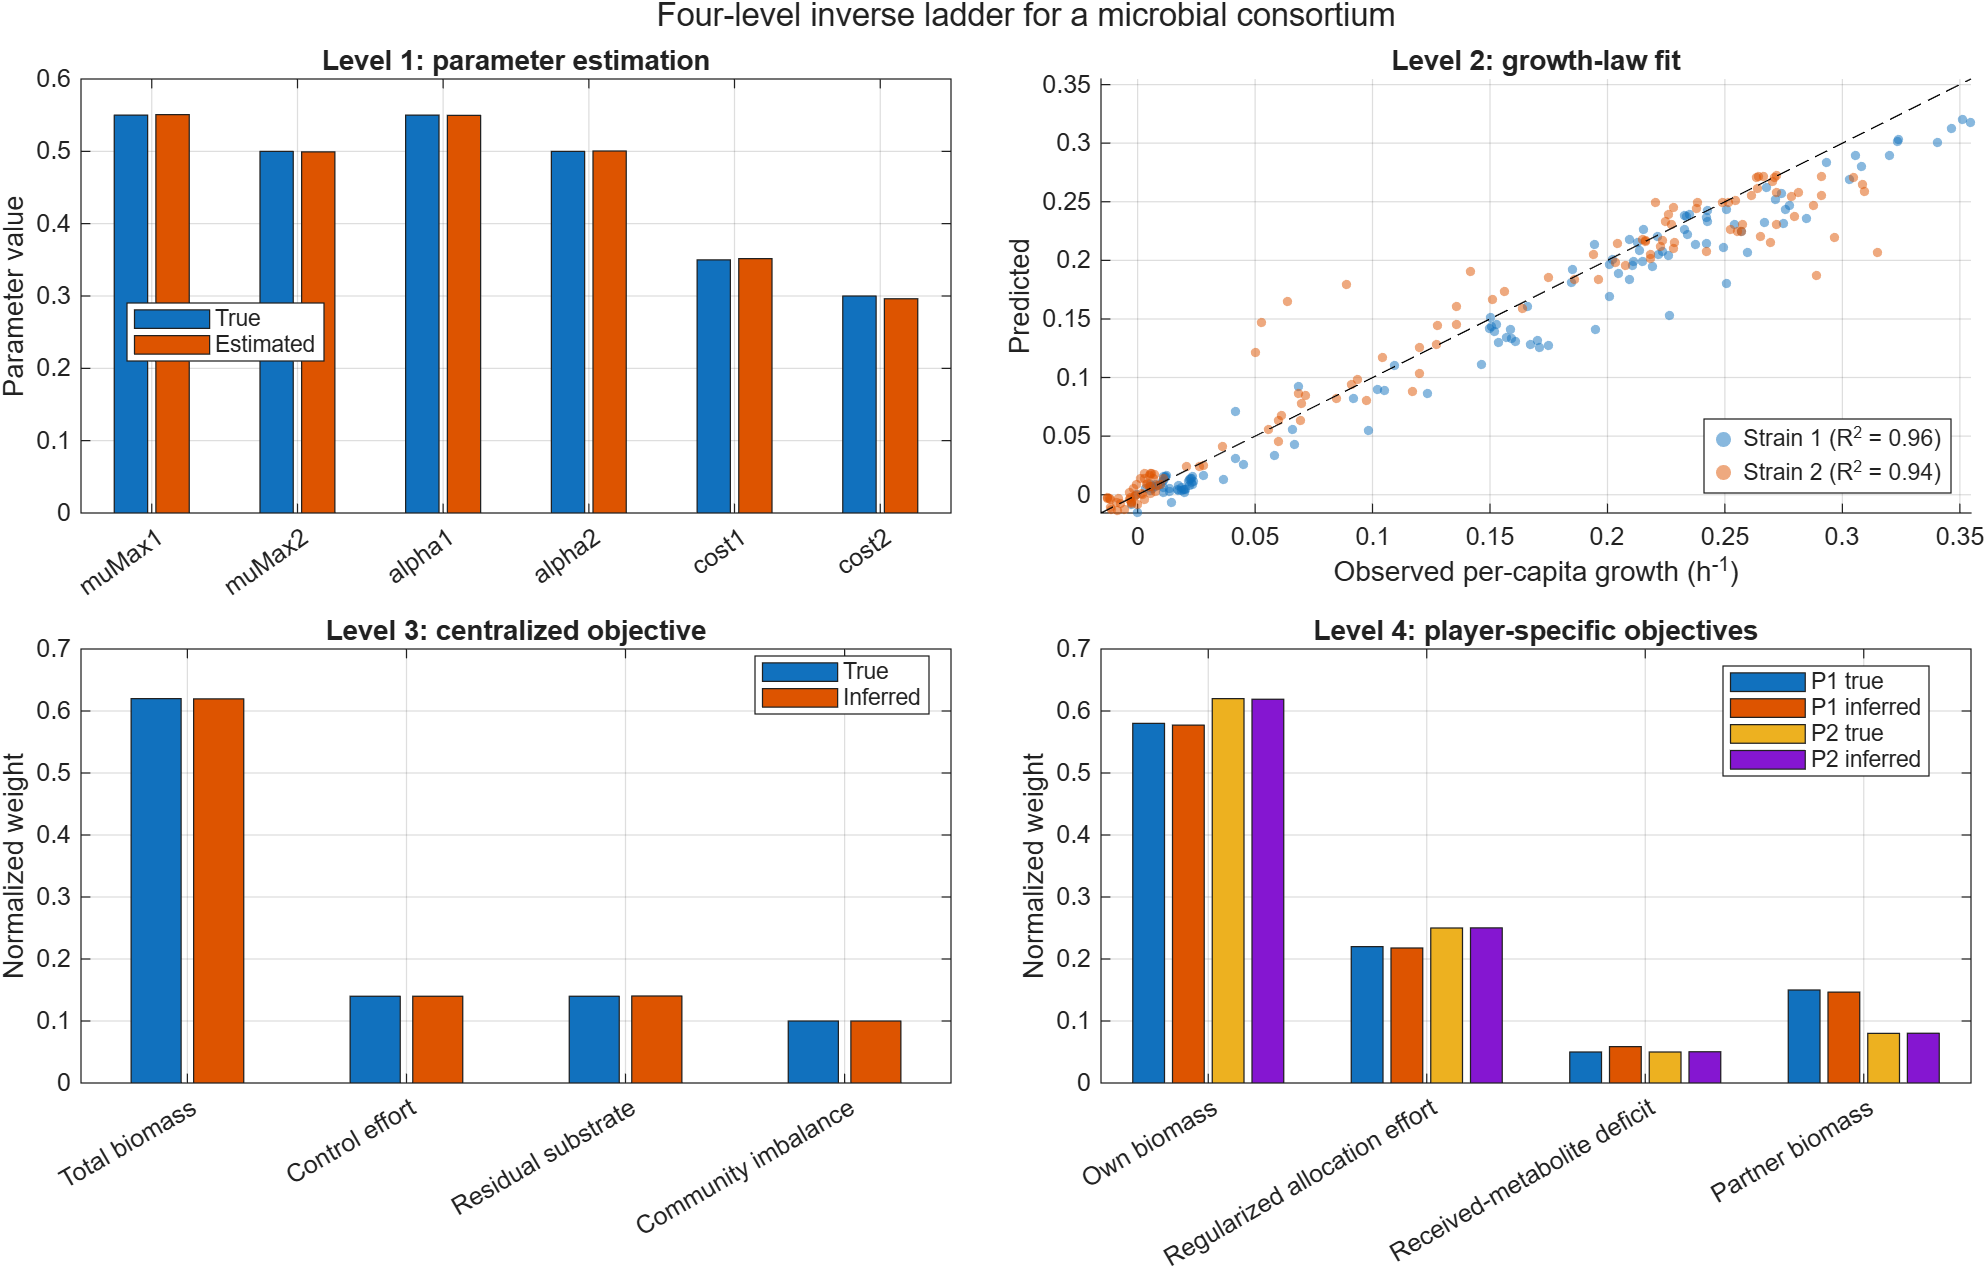
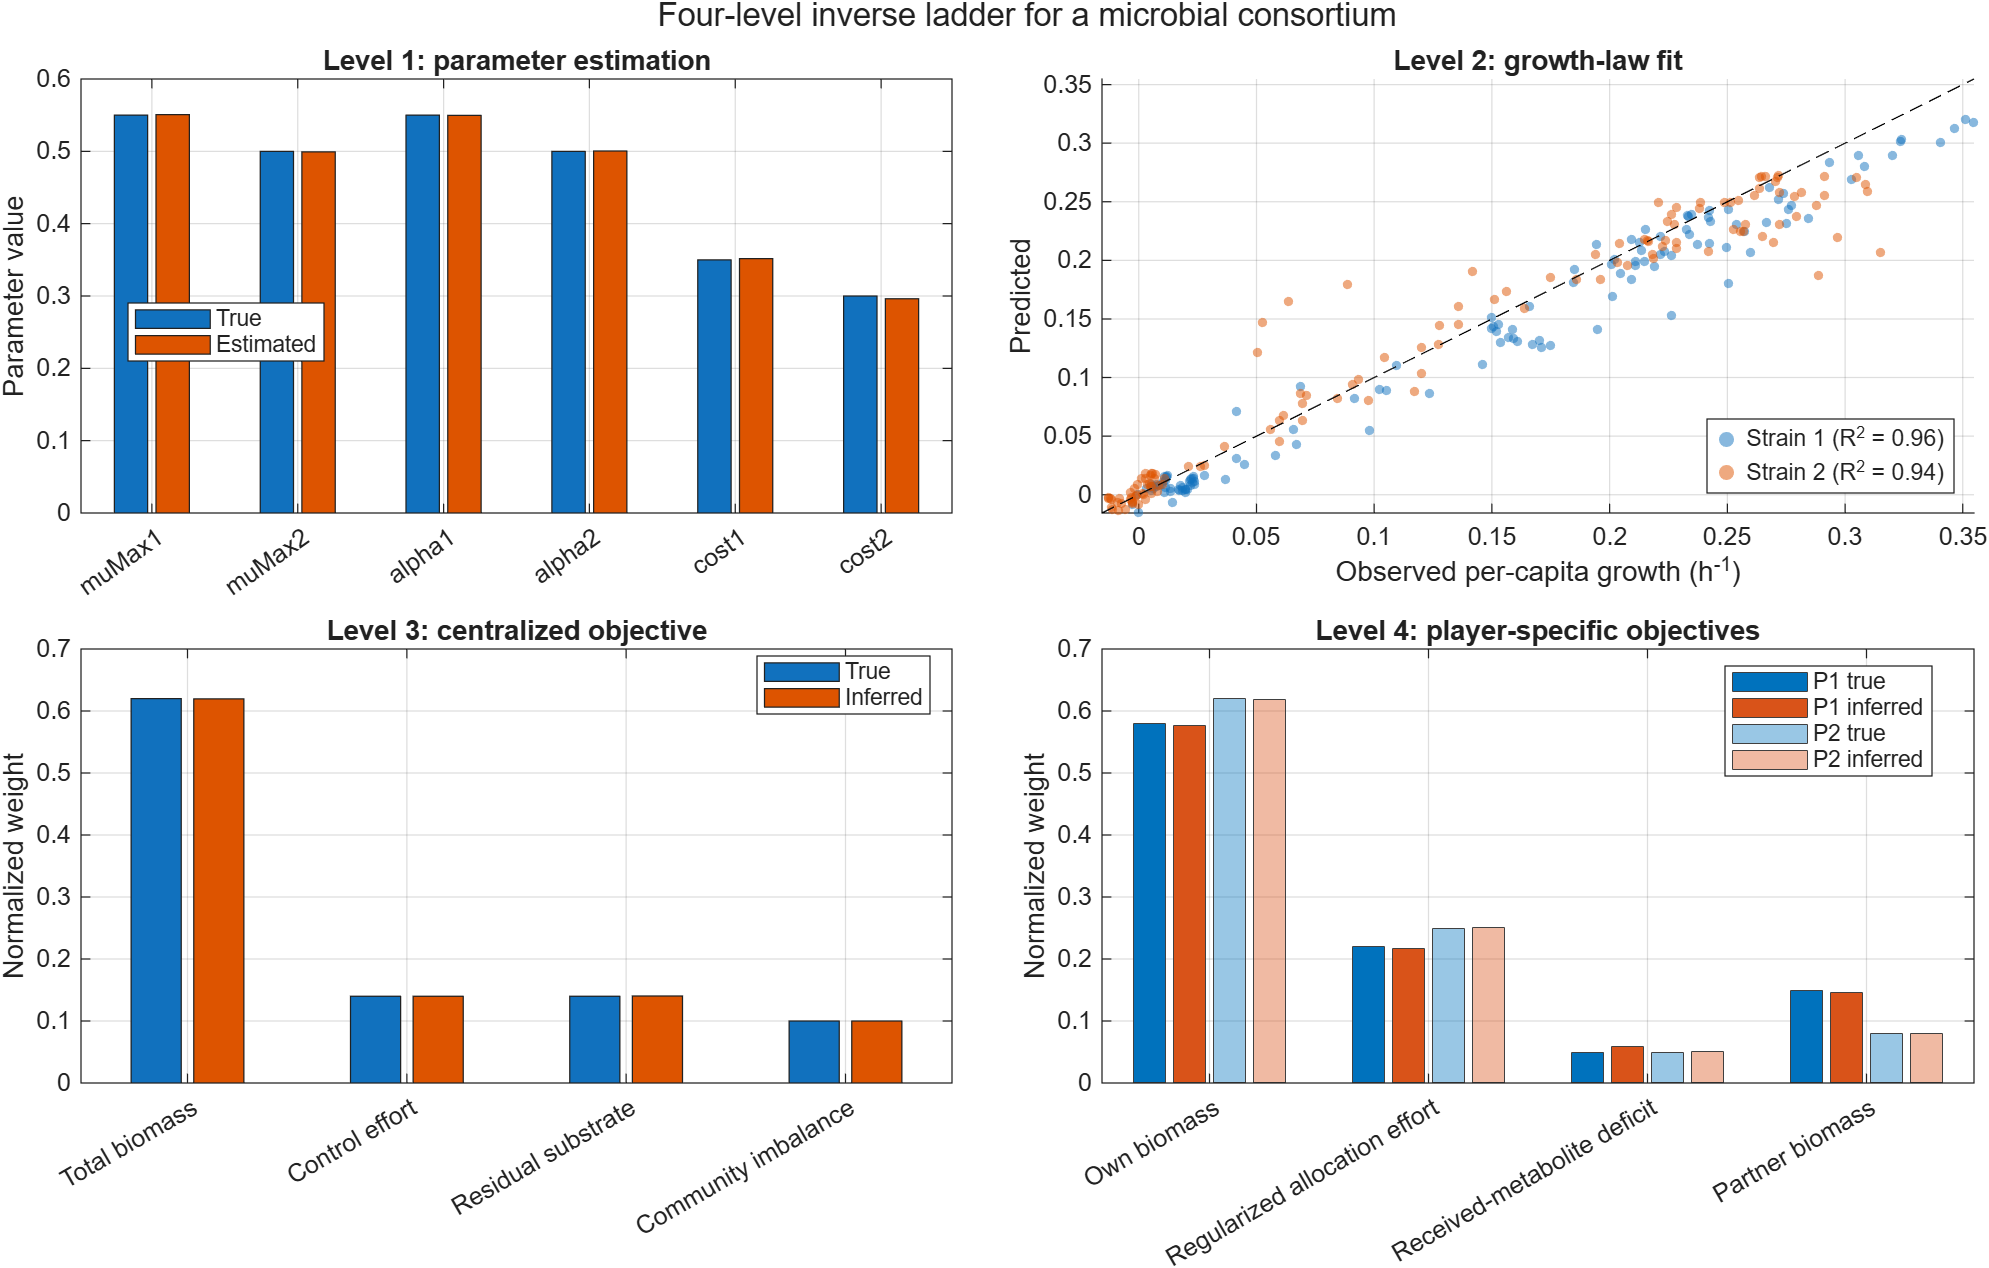
Unify true/inferred colors in Level 4 figures; add detailed-figure generator
Encode true vs inferred by color (blue/orange, matching Levels 1 and 3) and
the player by opacity (solid P1, translucent P2) in the Level 4 panel of the
summary figure (plotInverseLadderResults.m) and in the detailed Level 4
figure. Add generateReportFigures.m, which rebuilds the Level 1/3/4 detail
figures from inverse_ladder_results.mat, and list it in Contents.m. Regenerate
the affected PNGs.

diff --git a/generateReportFigures.m b/generateReportFigures.m
@@ -1,0 +1,198 @@
+function generateReportFigures()
+%GENERATEREPORTFIGURES Create the detailed per-level case-study figures.
+%   Regenerates the Level 1 calibration, Level 3 inverse-optimal-control, and
+%   Level 4 inverse-differential-game detail figures from the saved
+%   inverse_ladder_results.mat. The PNGs are written next to the results file
+%   (the same folder that holds inverse_ladder_summary.png); copy them into the
+%   manuscript figures folder as needed. Run runInverseLadderCaseStudy first so
+%   that inverse_ladder_results.mat exists.
+
+codeFolder = fileparts(mfilename("fullpath"));
+figureFolder = codeFolder;
+addpath(codeFolder);
+
+loaded = load(fullfile(codeFolder, "inverse_ladder_results.mat"), ...
+    "resultsToSave");
+results = loaded.resultsToSave;
+
+createCalibrationFigure(results, figureFolder);
+createLevel3Figure(results, figureFolder);
+createLevel4Figure(results, figureFolder);
+end
+
+function createCalibrationFigure(results, figureFolder)
+experiment = results.calibrationExperiments(1);
+prediction = results.level1.predictions{1};
+names = ["Strain 1", "Strain 2", "Substrate", ...
+    "Metabolite 1", "Metabolite 2"];
+
+figureHandle = figure("Color", "w", "Position", [100 100 1100 650]);
+layout = tiledlayout(2, 3, "TileSpacing", "compact", "Padding", "compact");
+title(layout, "Level 1 calibration: experiment 1");
+for stateIndex = 1:5
+    nexttile;
+    plot(experiment.times, experiment.states(:, stateIndex), "o", ...
+        "MarkerSize", 3.5, "Color", [0.15 0.45 0.75], ...
+        "DisplayName", "Noisy data");
+    hold on;
+    plot(experiment.times, prediction(:, stateIndex), "-", ...
+        "LineWidth", 1.6, "Color", [0.85 0.25 0.15], ...
+        "DisplayName", "Fitted model");
+    xlabel("Time");
+    ylabel(names(stateIndex));
+    grid on;
+    if stateIndex == 1
+        legend("Location", "best");
+    end
+end
+nexttile;
+stairs(experiment.times, experiment.controls(:, 1), "-", ...
+    "LineWidth", 1.5, "DisplayName", "u_1");
+hold on;
+stairs(experiment.times, experiment.controls(:, 2), "-", ...
+    "LineWidth", 1.5, "DisplayName", "u_2");
+xlabel("Time");
+ylabel("Allocation control");
+ylim([0 1]);
+grid on;
+legend("Location", "best");
+
+exportgraphics(figureHandle, ...
+    fullfile(figureFolder, "level1_calibration.png"), "Resolution", 220);
+close(figureHandle);
+end
+
+function createLevel3Figure(results, figureFolder)
+timeGrid = results.configuration.control.timeGrid;
+observed = results.level3.observations{1};
+validated = results.level3.validation{1};
+
+figureHandle = figure("Color", "w", "Position", [100 100 1100 650]);
+layout = tiledlayout(2, 2, "TileSpacing", "compact", "Padding", "compact");
+title(layout, "Level 3 inverse optimal control and forward validation");
+
+nexttile;
+stairs(timeGrid(1:end-1), observed.controls(:, 1), "-", ...
+    "LineWidth", 1.6, "DisplayName", "Observed u_1");
+hold on;
+stairs(timeGrid(1:end-1), observed.controls(:, 2), "-", ...
+    "LineWidth", 1.6, "DisplayName", "Observed u_2");
+stairs(timeGrid(1:end-1), validated.controls(:, 1), "--", ...
+    "LineWidth", 1.3, "DisplayName", "Validated u_1");
+stairs(timeGrid(1:end-1), validated.controls(:, 2), "--", ...
+    "LineWidth", 1.3, "DisplayName", "Validated u_2");
+xlabel("Time");
+ylabel("Allocation");
+ylim([0 1]);
+grid on;
+legend("Location", "best");
+
+nexttile;
+plot(timeGrid, observed.states(:, 1:2), "-", "LineWidth", 1.6);
+hold on;
+plot(timeGrid, validated.states(:, 1:2), "--", "LineWidth", 1.3);
+xlabel("Time");
+ylabel("Biomass");
+grid on;
+legend("Observed X_1", "Observed X_2", ...
+    "Validated X_1", "Validated X_2", "Location", "best");
+
+nexttile;
+bar([results.level3.trueWeights, results.level3.inferredWeights]);
+xticks(1:4);
+xticklabels(["Biomass", "Control", "Substrate", "Imbalance"]);
+xtickangle(20);
+ylabel("Normalized weight");
+grid on;
+legend("True", "Inferred", "Location", "best");
+
+nexttile;
+semilogy(results.level3.inverseDiagnostics.singularValues, "o-", ...
+    "LineWidth", 1.5, "MarkerSize", 6);
+xlabel("Singular-value index");
+ylabel("Singular value");
+title("Inverse stationarity matrix");
+grid on;
+
+exportgraphics(figureHandle, ...
+    fullfile(figureFolder, "level3_ioc.png"), "Resolution", 220);
+close(figureHandle);
+end
+
+function createLevel4Figure(results, figureFolder)
+timeGrid = results.configuration.control.timeGrid;
+observed = results.level4.observations{1};
+validated = results.level4.validation{1};
+
+figureHandle = figure("Color", "w", "Position", [100 100 1100 650]);
+layout = tiledlayout(2, 2, "TileSpacing", "compact", "Padding", "compact");
+title(layout, "Level 4 inverse differential game and Nash validation");
+
+nexttile;
+stairs(timeGrid(1:end-1), observed.controls(:, 1), "-", ...
+    "LineWidth", 1.6, "DisplayName", "Observed u_1");
+hold on;
+stairs(timeGrid(1:end-1), observed.controls(:, 2), "-", ...
+    "LineWidth", 1.6, "DisplayName", "Observed u_2");
+stairs(timeGrid(1:end-1), validated.controls(:, 1), "--", ...
+    "LineWidth", 1.3, "DisplayName", "Validated u_1");
+stairs(timeGrid(1:end-1), validated.controls(:, 2), "--", ...
+    "LineWidth", 1.3, "DisplayName", "Validated u_2");
+xlabel("Time");
+ylabel("Allocation");
+ylim([0 1]);
+grid on;
+legend("Location", "best");
+
+nexttile;
+plot(timeGrid, observed.states(:, 1:2), "-", "LineWidth", 1.6);
+hold on;
+plot(timeGrid, validated.states(:, 1:2), "--", "LineWidth", 1.3);
+xlabel("Time");
+ylabel("Biomass");
+grid on;
+legend("Observed X_1", "Observed X_2", ...
+    "Validated X_1", "Validated X_2", "Location", "best");
+
+nexttile;
+% Color encodes true vs inferred (blue/orange, matching Levels 1 and 3 and the
+% summary figure); opacity encodes the player (solid = P1, translucent = P2).
+trueColor = [0 0.4470 0.7410];          % blue   = true
+inferredColor = [0.8500 0.3250 0.0980]; % orange = inferred
+level4Weights = [results.level4.trueWeights(:, 1), ...
+    results.level4.inferredWeights(:, 1), ...
+    results.level4.trueWeights(:, 2), ...
+    results.level4.inferredWeights(:, 2)];
+barHandles = bar(level4Weights);
+faceColors = {trueColor, inferredColor, trueColor, inferredColor};
+faceAlphas = [1, 1, 0.4, 0.4];
+for seriesIndex = 1:numel(barHandles)
+    barHandles(seriesIndex).FaceColor = faceColors{seriesIndex};
+    barHandles(seriesIndex).FaceAlpha = faceAlphas(seriesIndex);
+    barHandles(seriesIndex).EdgeColor = [0.25 0.25 0.25];
+    barHandles(seriesIndex).LineWidth = 0.4;
+end
+xticks(1:4);
+xticklabels(["Own biomass", "Reg. effort", "Metabolite", "Partner"]);
+xtickangle(20);
+ylabel("Normalized weight");
+grid on;
+legend("P1 true", "P1 inferred", "P2 true", "P2 inferred", ...
+    "Location", "best");
+
+nexttile;
+semilogy(results.level4.inverseDiagnostics{1}.singularValues, ...
+    "o-", "LineWidth", 1.5, "DisplayName", "Player 1");
+hold on;
+semilogy(results.level4.inverseDiagnostics{2}.singularValues, ...
+    "s-", "LineWidth", 1.5, "DisplayName", "Player 2");
+xlabel("Singular-value index");
+ylabel("Singular value");
+title("Player stationarity matrices");
+grid on;
+legend("Location", "best");
+
+exportgraphics(figureHandle, ...
+    fullfile(figureFolder, "level4_idg.png"), "Resolution", 220);
+close(figureHandle);
+end

diff --git a/plotInverseLadderResults.m b/plotInverseLadderResults.m
@@ -54,11 +54,24 @@ legend("True", "Inferred", "Location", "best");
 grid on;
 
 nexttile;
+% Color encodes true vs inferred (blue/orange, matching Levels 1 and 3);
+% opacity encodes the player (solid = Player 1, translucent = Player 2).
+trueColor = [0 0.4470 0.7410];          % blue   = true
+inferredColor = [0.8500 0.3250 0.0980]; % orange = inferred
 playerLabels = ["P1 true", "P1 inferred", "P2 true", "P2 inferred"];
-bar([results.level4.trueWeights(:, 1), ...
+level4Weights = [results.level4.trueWeights(:, 1), ...
     results.level4.inferredWeights(:, 1), ...
     results.level4.trueWeights(:, 2), ...
-    results.level4.inferredWeights(:, 2)]);
+    results.level4.inferredWeights(:, 2)];
+barHandles = bar(level4Weights);
+faceColors = {trueColor, inferredColor, trueColor, inferredColor};
+faceAlphas = [1, 1, 0.4, 0.4];
+for seriesIndex = 1:numel(barHandles)
+    barHandles(seriesIndex).FaceColor = faceColors{seriesIndex};
+    barHandles(seriesIndex).FaceAlpha = faceAlphas(seriesIndex);
+    barHandles(seriesIndex).EdgeColor = [0.25 0.25 0.25];
+    barHandles(seriesIndex).LineWidth = 0.4;
+end
 xticks(1:numel(results.level4.featureNames));
 xticklabels(results.level4.featureNames);
 xtickangle(30);

diff --git a/Contents.m b/Contents.m
@@ -33,6 +33,7 @@
 %
 % Plotting and validation
 %   plotInverseLadderResults           - Four-panel summary figure.
+%   generateReportFigures              - Detailed Level 1/3/4 figures from saved results.
 %   testInverseLadderCaseStudy         - MATLAB unit tests.
 %   kktBoundHandlingTest               - Bound-aware inverse-KKT unit tests.
 %   structuralIdentifiabilityTest      - Shared structural-runner API tests.
